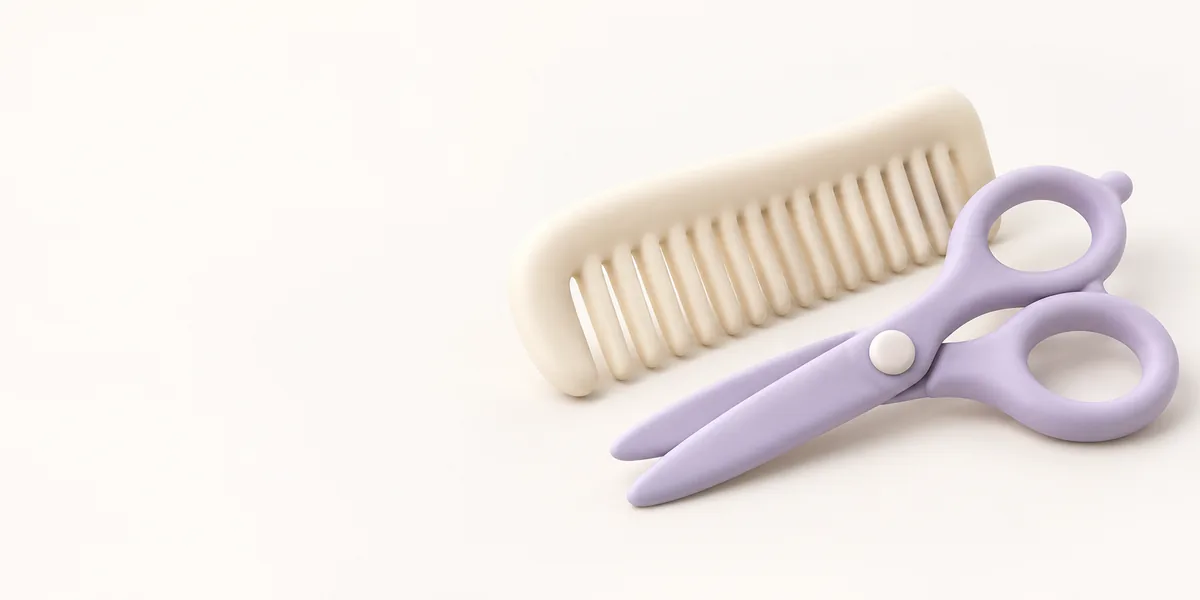
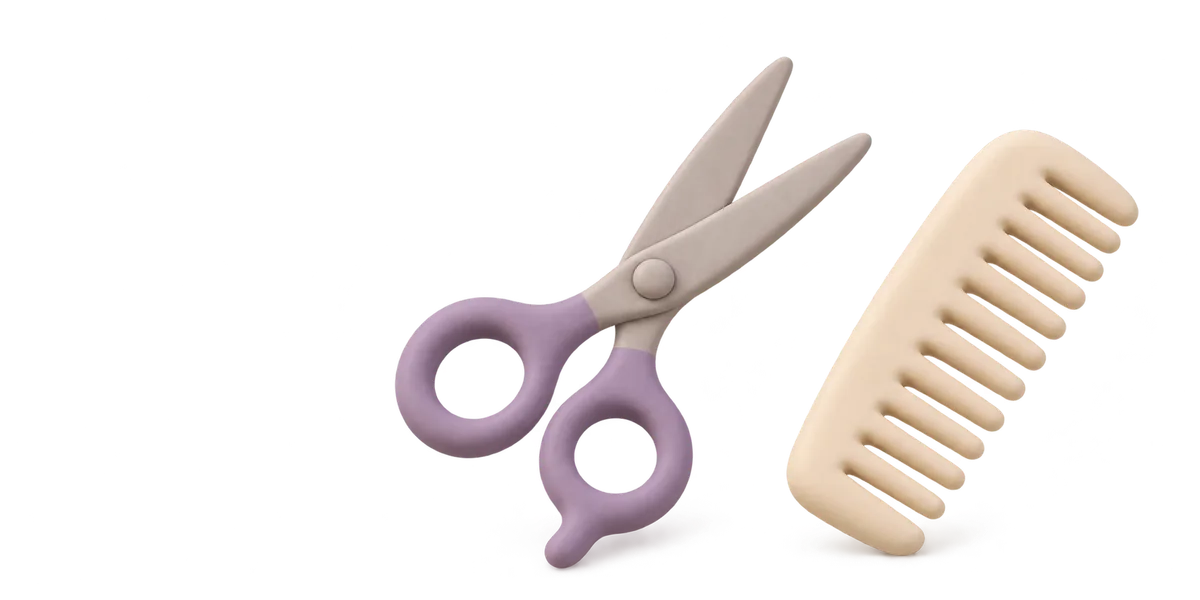
feat(composer): integrate Clay V1 illustrations

diff --git a/src/app/mois-a-venir/composer/hairdresser-reference.tsx b/src/app/mois-a-venir/composer/hairdresser-reference.tsx
@@ -3,6 +3,7 @@ import { useLayoutEffect, useRef, type ReactNode } from "react";
 import type { ComposerUiModel } from "@/domain/phase2/planner/composer-ui-contract";
 import type { PlannerJson, PlannerJsonObject } from "@/domain/phase2/planner/json";
 import { hairdresserReferenceLines, isHairdresserReference } from "@/domain/phase2/planner/composer-library-index";
+import { BuilderIllustration } from "../builder-illustrations";
 import { AtomicPopover, placeAtomicPopover } from "./atomic-popover";
 import { money } from "./display";
 import styles from "./composer.module.css";
@@ -36,7 +37,10 @@ export function HairdresserReference({ model, id, focus }: { model: ComposerUiMo
     <AtomicPopover label={`Voir cette prestation · ${card.label}`} state="DERIVED" focus={focus}
       icon={<><Eye size={14} /><span>Voir cette prestation</span></>}>
       {() => <HairdresserFacts id={card.externalIntentId!}>
-        <p>Lecture seule · dépense déjà référencée dans ce mois.</p>
+        <div className={styles.hairdresserFactsIntro}>
+          <p>Lecture seule · dépense déjà référencée dans ce mois.</p>
+          <BuilderIllustration semanticKey="asset:beauty:hairdresser" className={styles.hairdresserFactsArtwork} />
+        </div>
         <dl>
           <dt>Prestation référencée</dt><dd>{card.label}</dd>
           <dt>Prestataire indiqué</dt><dd>{text(context.seller) ?? "Non renseigné"}</dd>

diff --git a/src/app/mois-a-venir/composer/composer.module.css b/src/app/mois-a-venir/composer/composer.module.css
@@ -233,6 +233,8 @@
 .hairdresserReference > button { width:auto; max-width:100%; height:auto; min-height:36px; padding:7px 10px; gap:6px; border-radius:10px; font-size:10px; }
 .serviceFacts { display:grid; gap:10px; font-size:12px; line-height:1.5; overflow-wrap:anywhere; }
 .serviceFacts p,.serviceFacts dl { margin:0; }
+.hairdresserFactsIntro { display:flex; align-items:center; justify-content:space-between; gap:8px; }
+.hairdresserFactsIntro > .hairdresserFactsArtwork { position:relative; inset:auto; flex:0 0 72px; height:36px; border-radius:8px; background:none; }
 .serviceFacts dt { margin-top:6px; color:var(--muted); font-size:11px; }
 .serviceFacts dd { margin:0; }
 .orbitGroup { position:relative; z-index:var(--z-satellite); display:flex; align-items:center; justify-content:center; flex-wrap:wrap; gap:5px; min-width:0; overflow:visible; pointer-events:none; }
